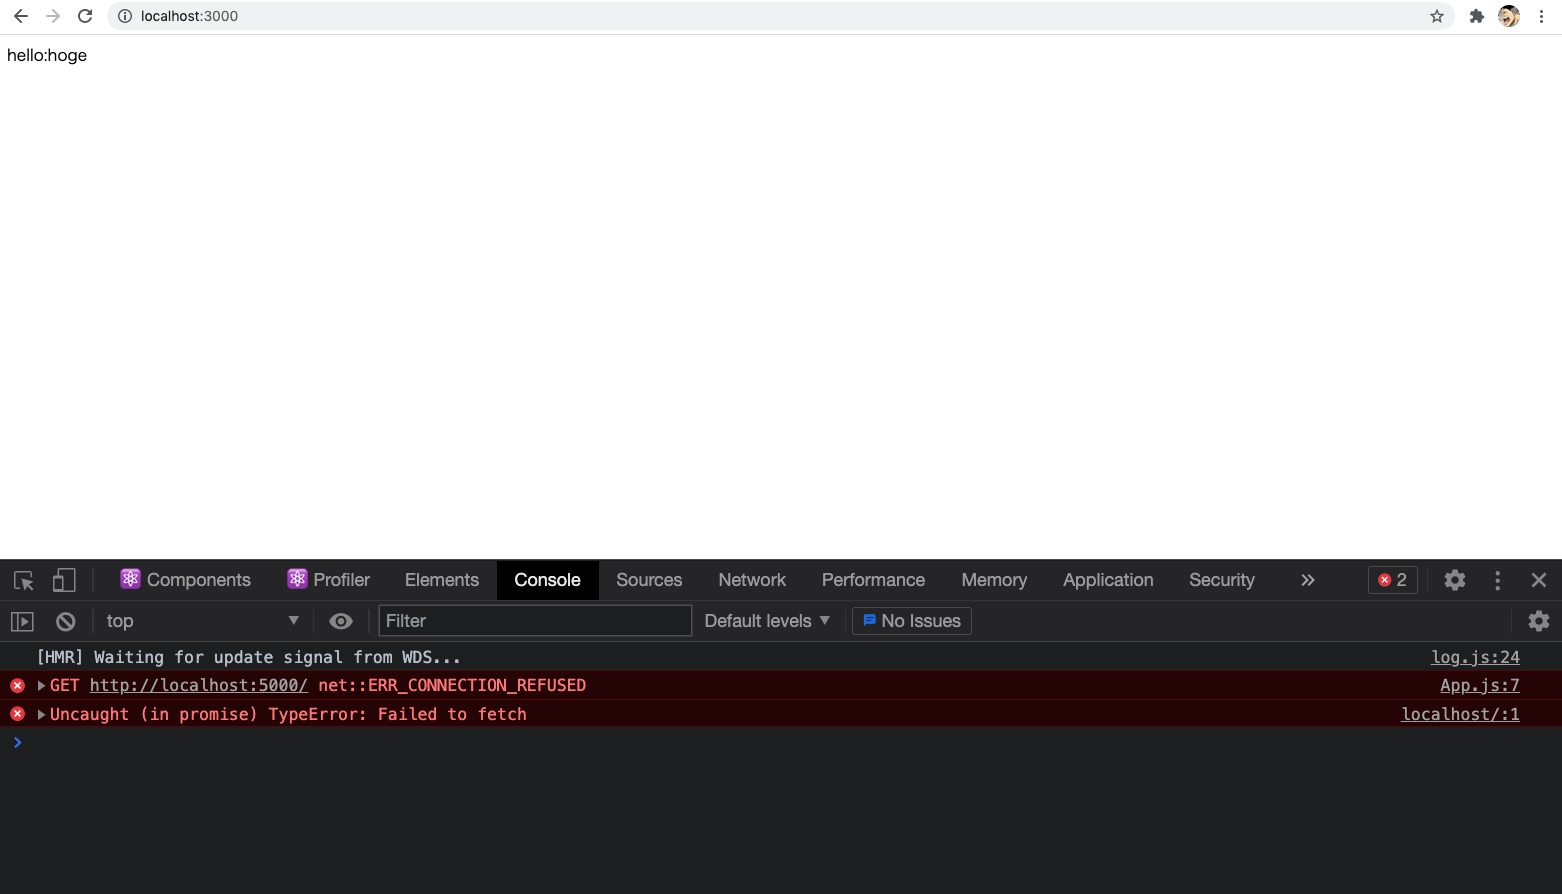
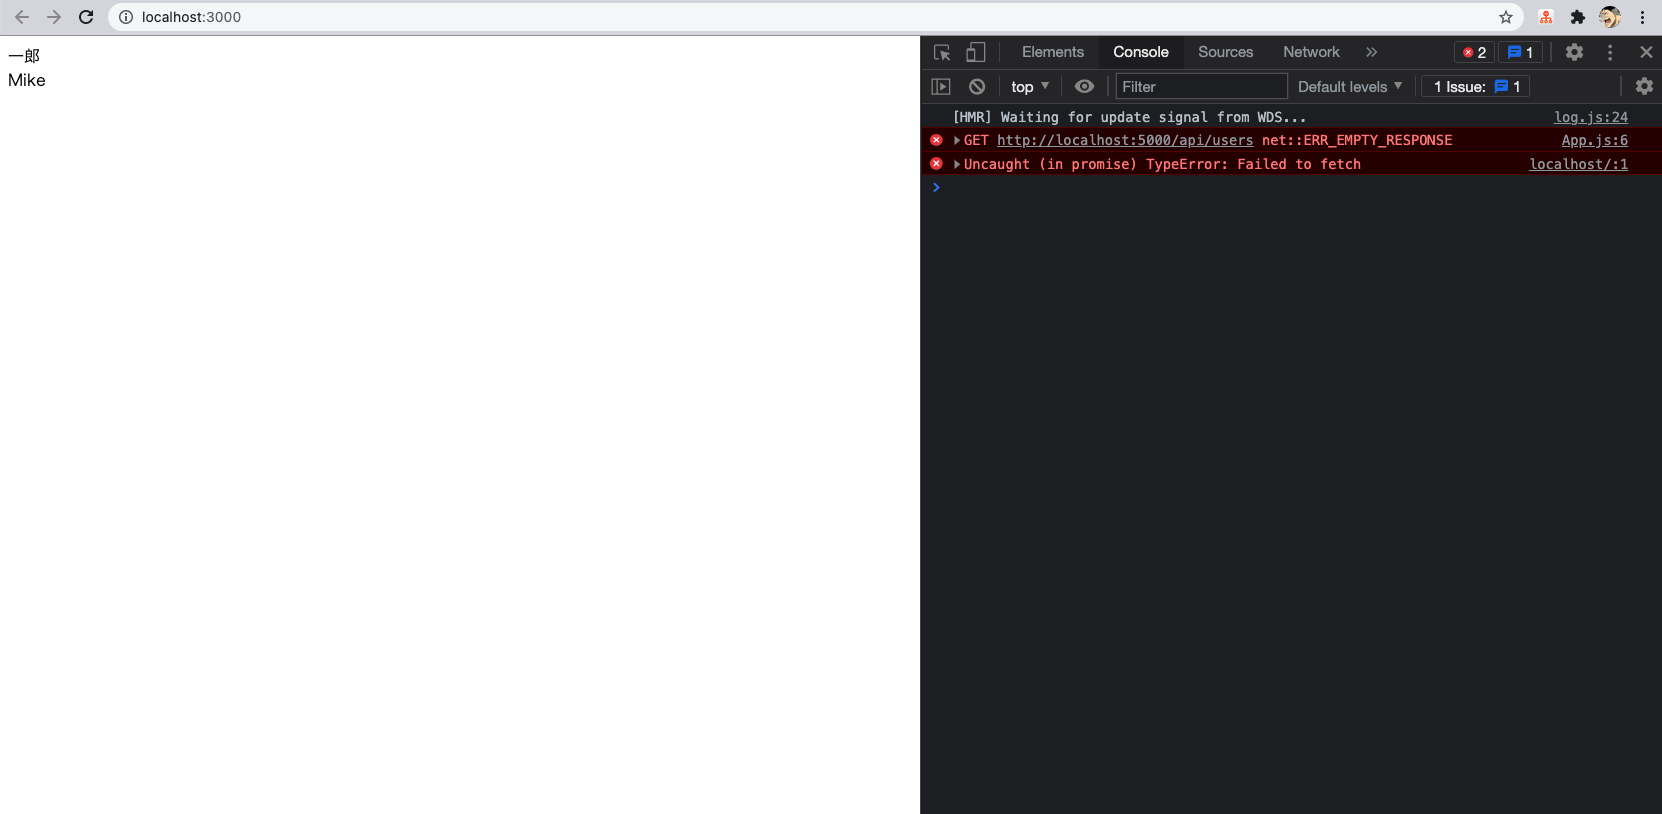
commited

diff --git a/recipe-2/sample/react-app/components/App.js b/recipe-2/sample/react-app/components/App.js
@@ -1,15 +1,19 @@
 import React, { useState, useEffect } from 'react'
 
 const App = () => {
-  const [message, setMessage] = useState('hoge')
-
+  const [users, setUsers] = useState([{ name: '一郎' }, { name: 'Mike' }])
   useEffect(() => {
     fetch('http://localhost:5000/api/users')
-      .then((response) => response.json())
-      .then((data) => setMessage(data.message))
-  }, [])
-
-  return <div>hello:{message}</div>
+      .then((res) => res.json())
+      .then((data) => setUsers([...data]))
+  })
+  return (
+    <div>
+      {users.map((user, index) => (
+        <div key={index}>{user.name}</div>
+      ))}
+    </div>
+  )
 }
 
 export default App

diff --git a/recipe-2/README.md b/recipe-2/README.md
@@ -174,40 +174,37 @@ To create a production build, use yarn build.
 [src/Index.js](./sample/react-app/Index.js)を以下に修正
 
 ```
-
-import React from 'react';
-import ReactDOM from 'react-dom';
-import App from './components/App'
+import React from "react"
+import ReactDOM from "react-dom"
+import App from "./components/App"
 
 ReactDOM.render(
-<React.StrictMode>
-<App />
-</React.StrictMode>,
-document.getElementById('root')
+  <React.StrictMode>
+    <App />
+  </React.StrictMode>,
+  document.getElementById("root")
 )
-
 ```
 
 `src/App.js`を[src/components/App.js](./sample/react-app/components/App.js)として修正
 
 ```
-
-import React,{useState,useEffect} from 'react'
+import React, { useState, useEffect } from 'react'
 
 const App = () => {
-const [message,setMessage] = useState("hoge")
-
-useEffect(() => {
-fetch('http://localhost:5000/api/users')
-.then(response => response.json())
-.then(data => setMessage(data.message))
-},[])
-
-return (
-<div>
-hello:{message}
-</div>
-)
+  const [users, setUsers] = useState([{ name: '一郎' }, { name: 'Mike' }])
+  useEffect(() => {
+    fetch('http://localhost:5000/api/users')
+      .then((res) => res.json())
+      .then((data) => setUsers([...data]))
+  })
+  return (
+    <div>
+      {users.map((user, index) => (
+        <div key={index}>{user.name}</div>
+      ))}
+    </div>
+  )
 }
 
 export default App
